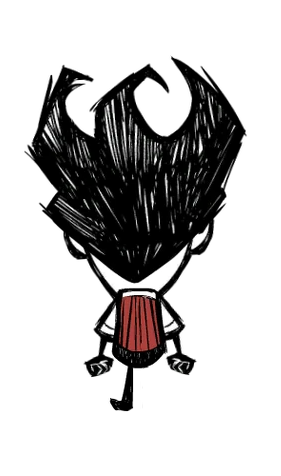
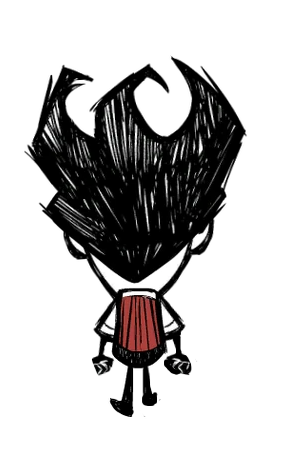
add other directions for movements

diff --git a/src/main/java/com/example/mygame/game/player/PlayerConstants.java b/src/main/java/com/example/mygame/game/player/PlayerConstants.java
@@ -11,12 +11,15 @@ public final class PlayerConstants {
     public static final String WILSON_LEFT = "/com/example/mygame/img/wilson/Wilson_left.png";
     public static final String WILSON_RIGHT = "/com/example/mygame/img/wilson/Wilson_right.png";
 
-    public static final String[] WILSON_IDLE_DOWN_FRAMES = {WILSON_FRONT};
-    public static final String[] WILSON_IDLE_UP_FRAMES = {WILSON_BACK};
-    public static final String[] WILSON_IDLE_LEFT_FRAMES = {WILSON_LEFT}; // Static idle for left
-    public static final String[] WILSON_IDLE_RIGHT_FRAMES = {WILSON_RIGHT};
-
     public static final Image[] WILSON_MOVING_UP_FRAMES = {
+            new Image(Objects.requireNonNull(PlayerConstants.class.getResourceAsStream("/com/example/mygame/img/wilson/Wilson_back.png"))),
+            new Image(Objects.requireNonNull(PlayerConstants.class.getResourceAsStream("/com/example/mygame/img/wilson/Wilson_back1.png"))),
+            new Image(Objects.requireNonNull(PlayerConstants.class.getResourceAsStream("/com/example/mygame/img/wilson/Wilson_back2.png"))),
+            new Image(Objects.requireNonNull(PlayerConstants.class.getResourceAsStream("/com/example/mygame/img/wilson/Wilson_back1.png"))),
+            new Image(Objects.requireNonNull(PlayerConstants.class.getResourceAsStream("/com/example/mygame/img/wilson/Wilson_back.png"))),
+            new Image(Objects.requireNonNull(PlayerConstants.class.getResourceAsStream("/com/example/mygame/img/wilson/Wilson_back3.png"))),
+            new Image(Objects.requireNonNull(PlayerConstants.class.getResourceAsStream("/com/example/mygame/img/wilson/Wilson_back4.png"))),
+            new Image(Objects.requireNonNull(PlayerConstants.class.getResourceAsStream("/com/example/mygame/img/wilson/Wilson_back3.png")))
     };
 
     public static final Image[] WILSON_MOVING_DOWN_FRAMES = {
@@ -30,8 +33,27 @@ public final class PlayerConstants {
             new Image(Objects.requireNonNull(PlayerConstants.class.getResourceAsStream("/com/example/mygame/img/wilson/Wilson_front3.png")))
     };
 
-    public static final Image[] WILSON_MOVING_LEFT_FRAMES = {};
-    public static final Image[] WILSON_MOVING_RIGHT_FRAMES = {};
+    public static final Image[] WILSON_MOVING_LEFT_FRAMES = {
+            new Image(Objects.requireNonNull(PlayerConstants.class.getResourceAsStream("/com/example/mygame/img/wilson/Wilson_left.png"))),
+            new Image(Objects.requireNonNull(PlayerConstants.class.getResourceAsStream("/com/example/mygame/img/wilson/Wilson_left1.png"))),
+            new Image(Objects.requireNonNull(PlayerConstants.class.getResourceAsStream("/com/example/mygame/img/wilson/Wilson_left2.png"))),
+            new Image(Objects.requireNonNull(PlayerConstants.class.getResourceAsStream("/com/example/mygame/img/wilson/Wilson_left1.png"))),
+            new Image(Objects.requireNonNull(PlayerConstants.class.getResourceAsStream("/com/example/mygame/img/wilson/Wilson_left.png"))),
+            new Image(Objects.requireNonNull(PlayerConstants.class.getResourceAsStream("/com/example/mygame/img/wilson/Wilson_left3.png"))),
+            new Image(Objects.requireNonNull(PlayerConstants.class.getResourceAsStream("/com/example/mygame/img/wilson/Wilson_left4.png"))),
+            new Image(Objects.requireNonNull(PlayerConstants.class.getResourceAsStream("/com/example/mygame/img/wilson/Wilson_left3.png")))
+    };
+    public static final Image[] WILSON_MOVING_RIGHT_FRAMES = {
+            new Image(Objects.requireNonNull(PlayerConstants.class.getResourceAsStream("/com/example/mygame/img/wilson/Wilson_right.png"))),
+            new Image(Objects.requireNonNull(PlayerConstants.class.getResourceAsStream("/com/example/mygame/img/wilson/Wilson_right1.png"))),
+            new Image(Objects.requireNonNull(PlayerConstants.class.getResourceAsStream("/com/example/mygame/img/wilson/Wilson_right2.png"))),
+            new Image(Objects.requireNonNull(PlayerConstants.class.getResourceAsStream("/com/example/mygame/img/wilson/Wilson_right1.png"))),
+            new Image(Objects.requireNonNull(PlayerConstants.class.getResourceAsStream("/com/example/mygame/img/wilson/Wilson_right.png"))),
+            new Image(Objects.requireNonNull(PlayerConstants.class.getResourceAsStream("/com/example/mygame/img/wilson/Wilson_right3.png"))),
+            new Image(Objects.requireNonNull(PlayerConstants.class.getResourceAsStream("/com/example/mygame/img/wilson/Wilson_right4.png"))),
+            new Image(Objects.requireNonNull(PlayerConstants.class.getResourceAsStream("/com/example/mygame/img/wilson/Wilson_right3.png")))
+
+    };
 
     public static final double PLAYER_WIDTH = 32.0 * 3; // Example width
     public static final double PLAYER_HEIGHT = 32.0 * 3; // Example height

diff --git a/src/main/java/com/example/mygame/game/player/PlayerAnimator.java b/src/main/java/com/example/mygame/game/player/PlayerAnimator.java
@@ -19,45 +19,26 @@ public class PlayerAnimator {
 
     private void loadFrames() {
         try {
-            // Example for DOWN direction
             animationFrames.put(Player.Direction.DOWN, PlayerConstants.WILSON_MOVING_DOWN_FRAMES);
 
-            // Set idle (static) image for DOWN
             idleFrames.put(Player.Direction.DOWN,
                     new Image(Objects.requireNonNull(getClass().getResourceAsStream(PlayerConstants.WILSON_FRONT))));
 
-            // Repeat for other directions
-//            animationFrames.put(Player.Direction.UP, new Image[]{
-//                    new Image(Objects.requireNonNull(getClass().getResourceAsStream(PlayerConstants.WILSON_BACK_1))),
-//                    new Image(Objects.requireNonNull(getClass().getResourceAsStream(PlayerConstants.WILSON_BACK_2))),
-//                    new Image(Objects.requireNonNull(getClass().getResourceAsStream(PlayerConstants.WILSON_BACK_3))),
-//                    new Image(Objects.requireNonNull(getClass().getResourceAsStream(PlayerConstants.WILSON_BACK_4))),
-//                    new Image(Objects.requireNonNull(getClass().getResourceAsStream(PlayerConstants.WILSON_BACK_5))),
-//            });
-//            idleFrames.put(Player.Direction.UP,
-//                    new Image(Objects.requireNonNull(getClass().getResourceAsStream(PlayerConstants.WILSON_BACK))));
-//
-//            // LEFT
-//            animationFrames.put(Player.Direction.LEFT, new Image[]{
-//                    new Image(Objects.requireNonNull(getClass().getResourceAsStream(PlayerConstants.WILSON_LEFT_1))),
-//                    new Image(Objects.requireNonNull(getClass().getResourceAsStream(PlayerConstants.WILSON_LEFT_2))),
-//                    new Image(Objects.requireNonNull(getClass().getResourceAsStream(PlayerConstants.WILSON_LEFT_3))),
-//                    new Image(Objects.requireNonNull(getClass().getResourceAsStream(PlayerConstants.WILSON_LEFT_4))),
-//                    new Image(Objects.requireNonNull(getClass().getResourceAsStream(PlayerConstants.WILSON_LEFT_5))),
-//            });
-//            idleFrames.put(Player.Direction.LEFT,
-//                    new Image(Objects.requireNonNull(getClass().getResourceAsStream(PlayerConstants.WILSON_LEFT))));
-//
-//            // RIGHT
-//            animationFrames.put(Player.Direction.RIGHT, new Image[]{
-//                    new Image(Objects.requireNonNull(getClass().getResourceAsStream(PlayerConstants.WILSON_RIGHT_1))),
-//                    new Image(Objects.requireNonNull(getClass().getResourceAsStream(PlayerConstants.WILSON_RIGHT_2))),
-//                    new Image(Objects.requireNonNull(getClass().getResourceAsStream(PlayerConstants.WILSON_RIGHT_3))),
-//                    new Image(Objects.requireNonNull(getClass().getResourceAsStream(PlayerConstants.WILSON_RIGHT_4))),
-//                    new Image(Objects.requireNonNull(getClass().getResourceAsStream(PlayerConstants.WILSON_RIGHT_5))),
-//            });
-//            idleFrames.put(Player.Direction.RIGHT,
-//                    new Image(Objects.requireNonNull(getClass().getResourceAsStream(PlayerConstants.WILSON_RIGHT))));
+            animationFrames.put(Player.Direction.UP, PlayerConstants.WILSON_MOVING_UP_FRAMES);
+
+            idleFrames.put(Player.Direction.UP,
+                    new Image(Objects.requireNonNull(getClass().getResourceAsStream(PlayerConstants.WILSON_BACK))));
+
+            animationFrames.put(Player.Direction.LEFT, PlayerConstants.WILSON_MOVING_LEFT_FRAMES);
+
+            idleFrames.put(Player.Direction.LEFT,
+                    new Image(Objects.requireNonNull(getClass().getResourceAsStream(PlayerConstants.WILSON_LEFT))));
+
+
+            animationFrames.put(Player.Direction.RIGHT, PlayerConstants.WILSON_MOVING_RIGHT_FRAMES);
+
+            idleFrames.put(Player.Direction.RIGHT,
+                    new Image(Objects.requireNonNull(getClass().getResourceAsStream(PlayerConstants.WILSON_RIGHT))));
 
         } catch (Exception e) {
             System.err.println("Failed to load animation frames: " + e.getMessage());
